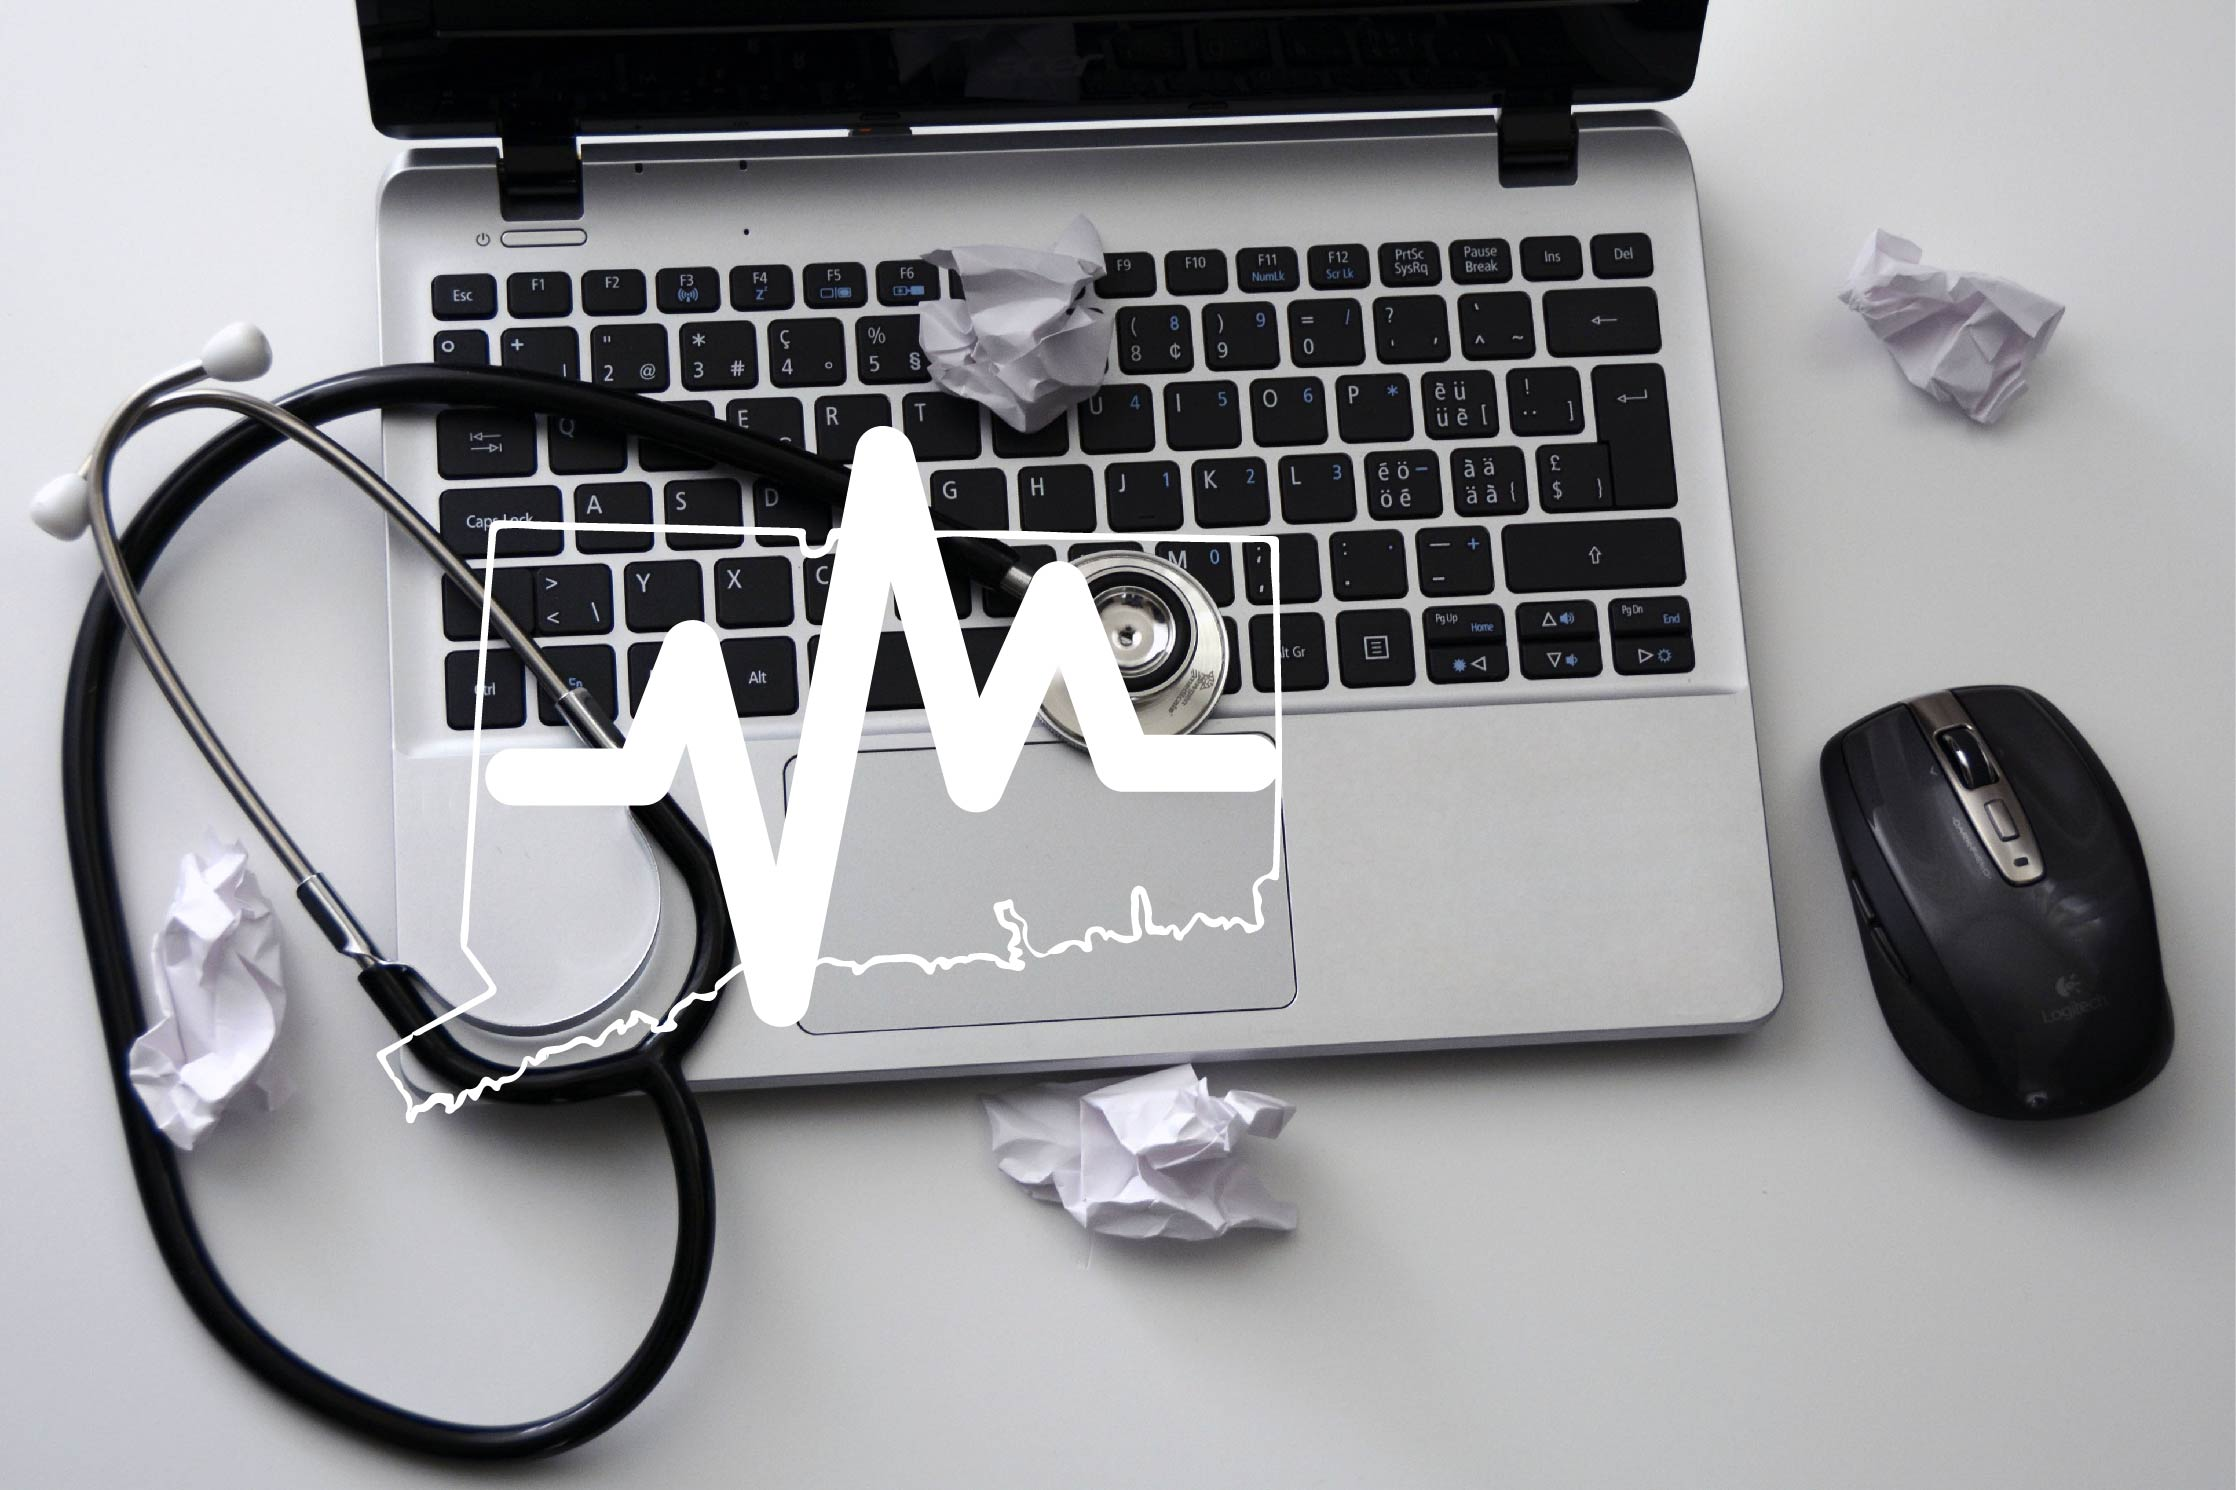
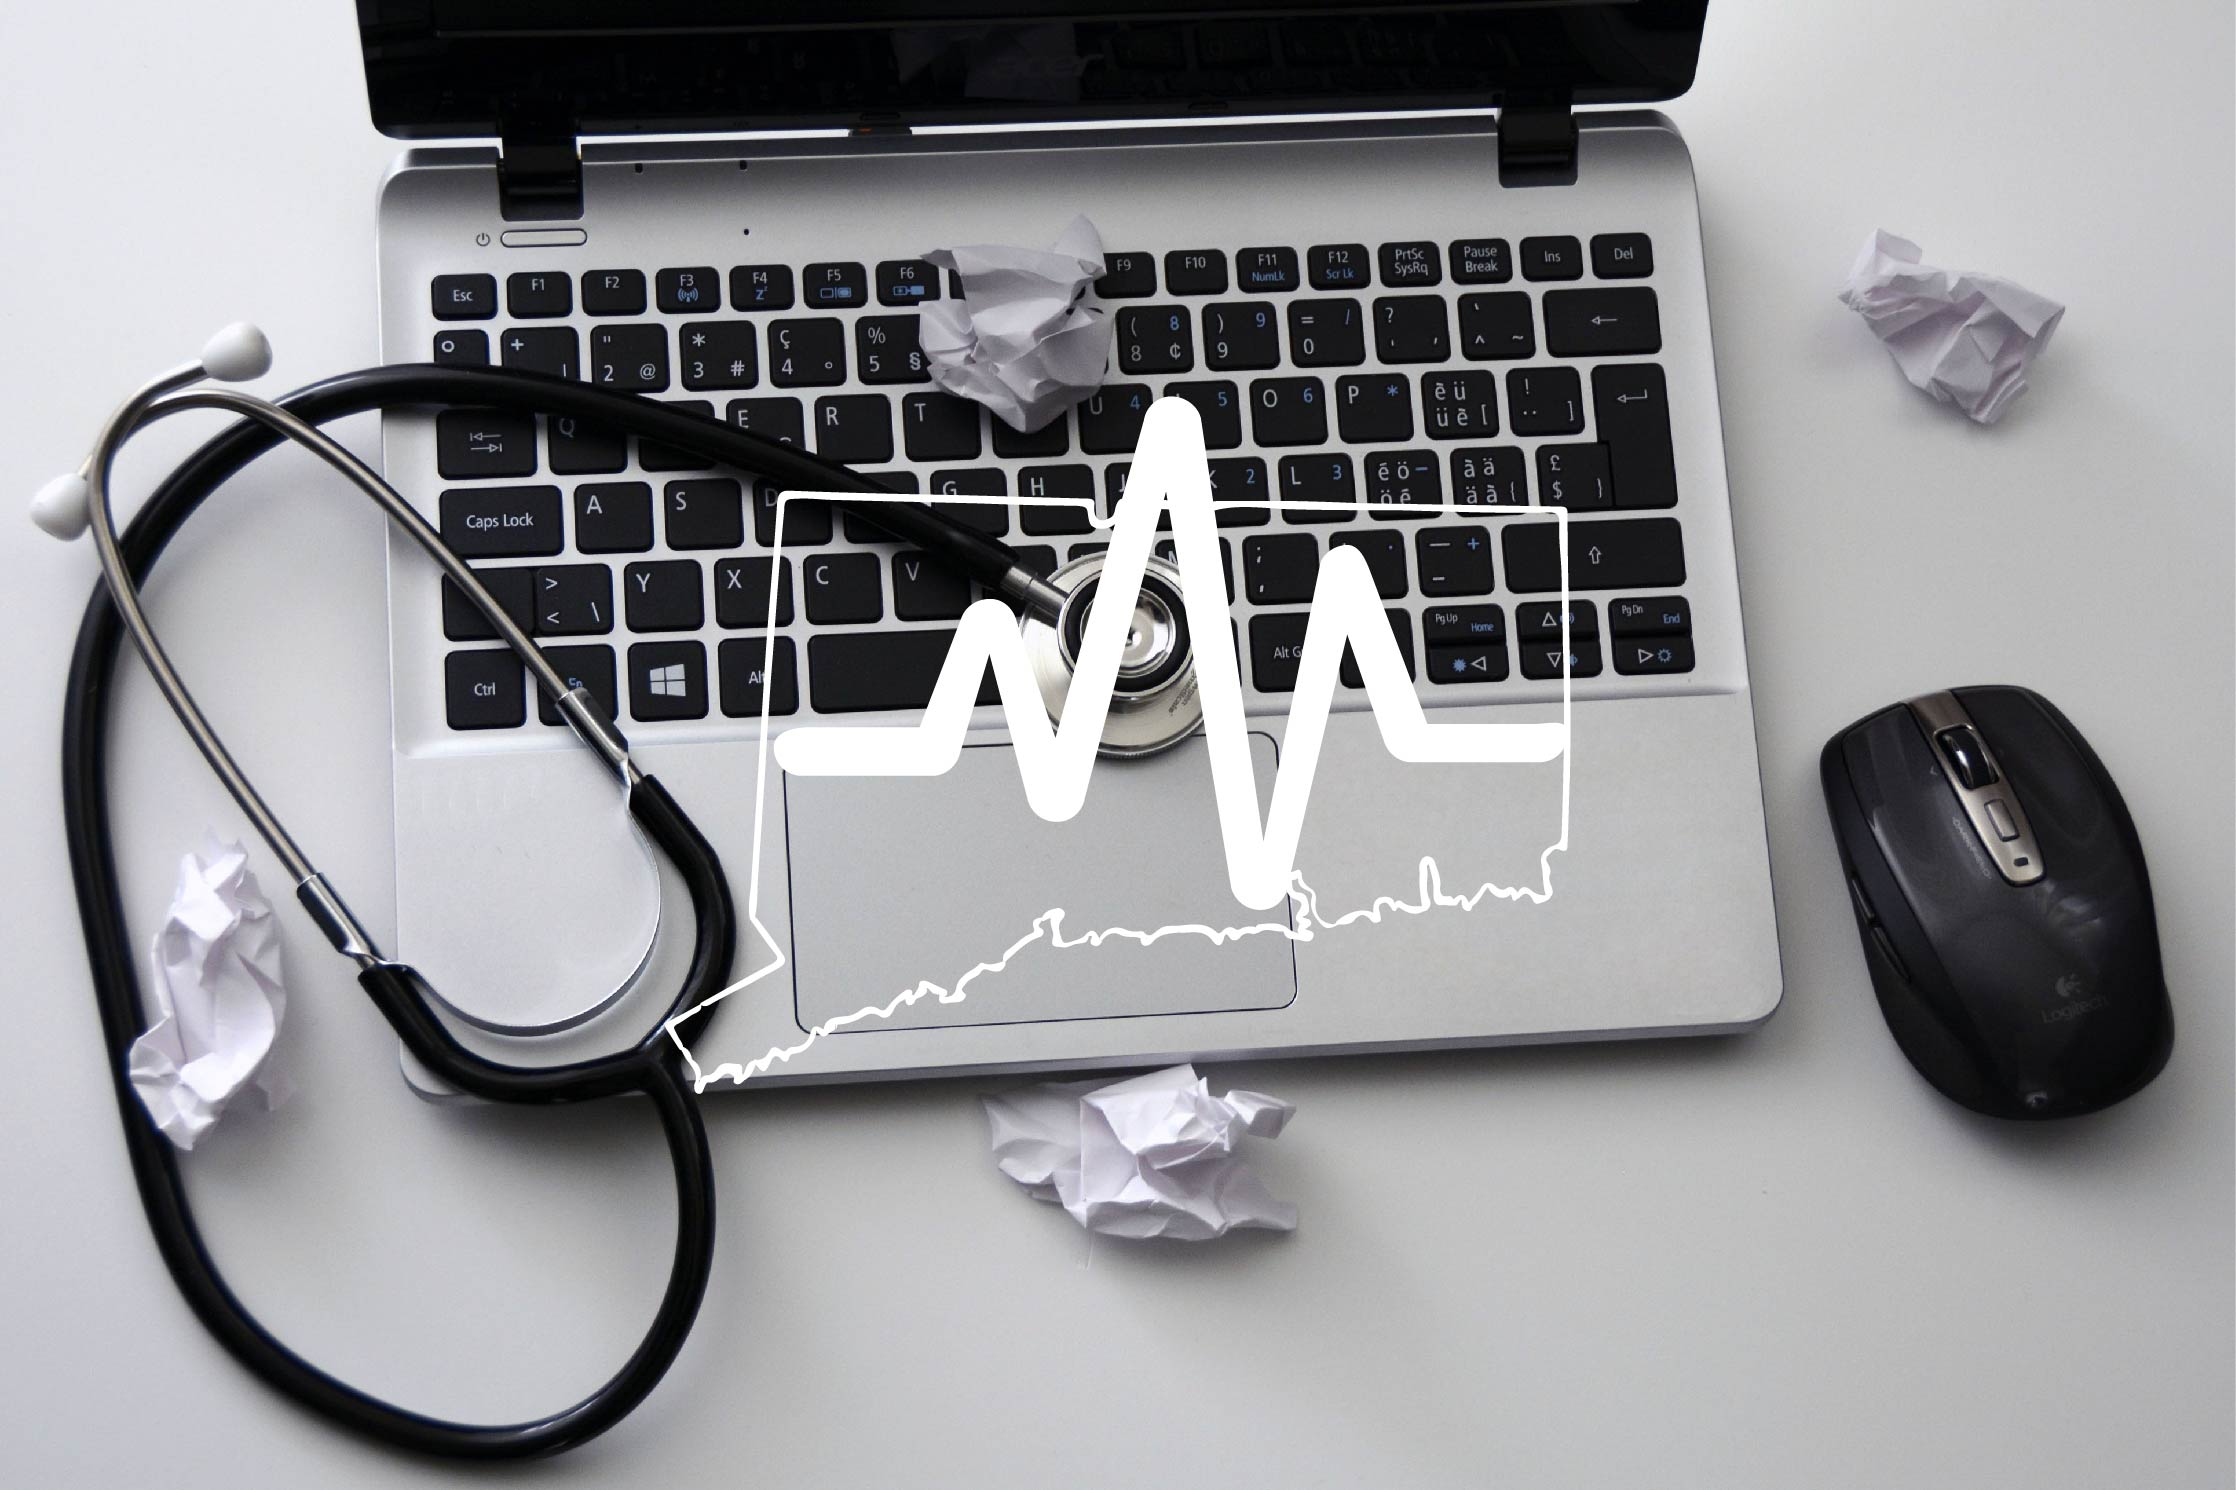
Live Website v1.2

diff --git a/index.html b/index.html
@@ -15,7 +15,7 @@
 			<div id="wrapper" class="divided">
 
 				<!-- Intro -->
-					<section class="banner style1 orient-right content-align-right image-position-left fullscreen onload-image-fade-in onload-content-fade-left">
+					<section class="banner style1 orient-right content-align-right image-position-middle fullscreen onload-image-fade-in onload-content-fade-left">
 						<div class="content">
 							<h1>CT Premed Consulting</h1>
 							<p class="major">CT Premed Consulting has a breadth of experience and offers a wide range of services for anybody in high school, college, or beyond on how to become a competitive applicant to medical schools. </p>
@@ -236,6 +236,15 @@
 													<textarea name="message" id="message" rows="6"></textarea>
 												</div>
                                                 
+                                                <div class="field half first">
+                                                    <label for="promo">Promo Code</label>
+                                                    <input type="promo" name="promo" id="promo" value="" />
+                                                </div>
+                                                
+                                                <div class="field half">
+                                                    <label for="referral">How did you hear about us? </label>
+                                                    <input type="referral" name="referral" id="referral" value="" />
+                                                </div>
                                                 
                                                 <div class="field">
                                                     <label for="waiver"> <p><strong>By filling this form and signing your name below, you acknowledge that:</strong></p> 
